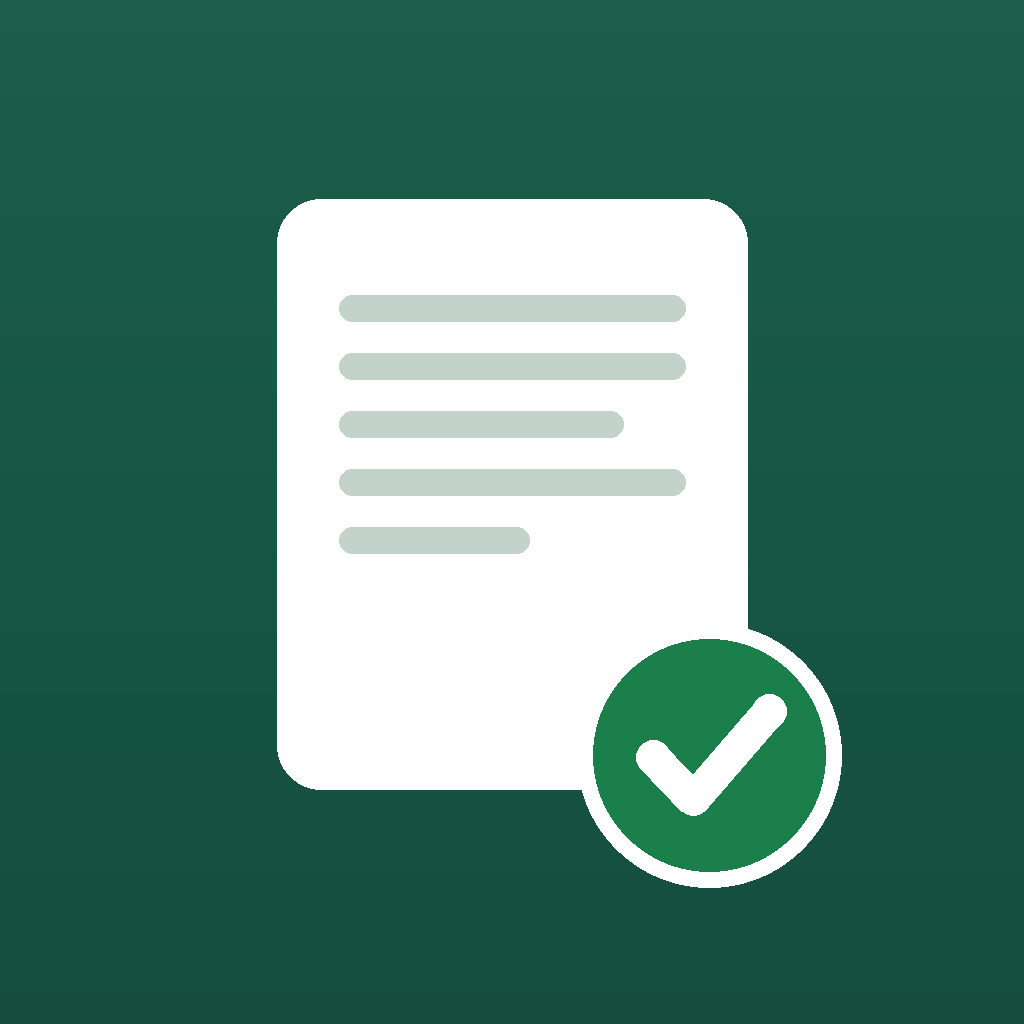
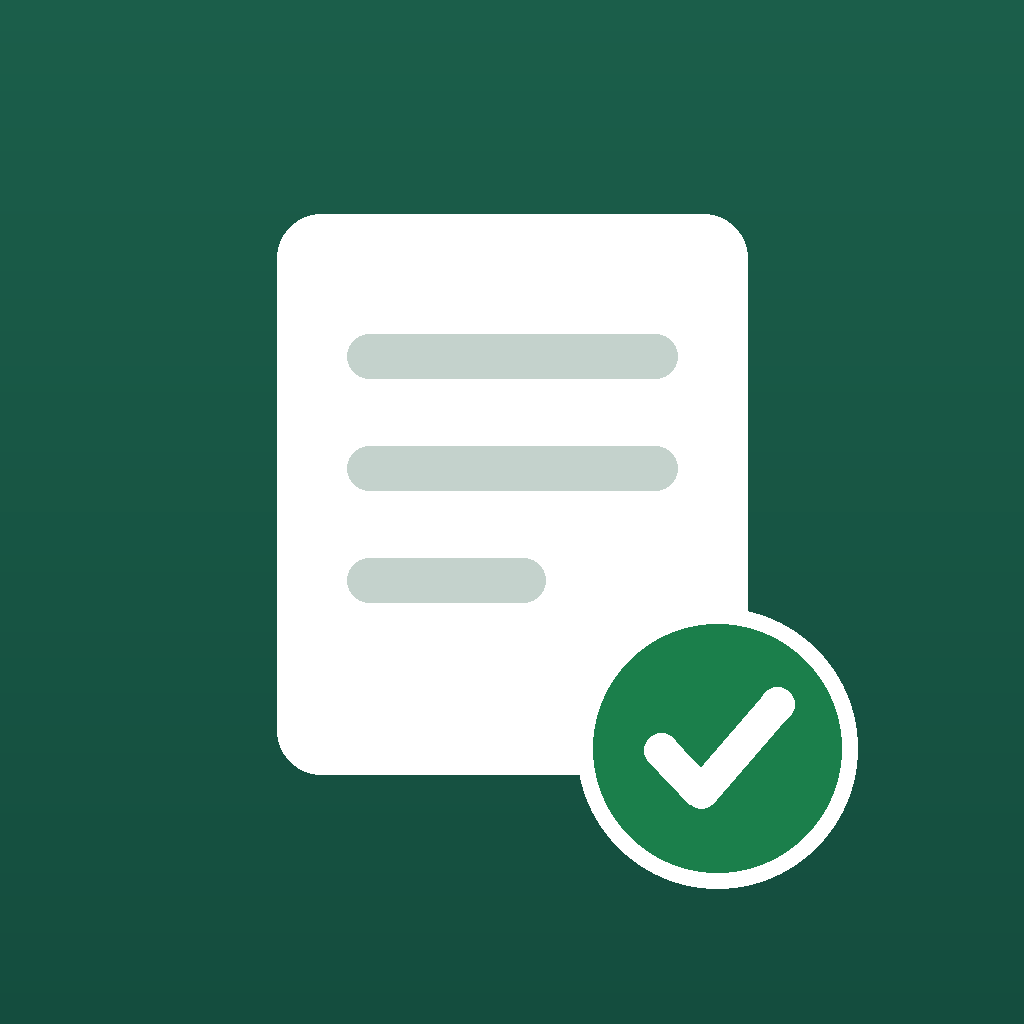
連絡先メールアドレスを記入

diff --git a/index.html b/index.html
@@ -84,7 +84,7 @@
 <h2>お問い合わせ</h2>
 <p>不具合のご報告、解説の誤りのご指摘、ご要望などは、こちらまでお願いいたします。数日以内に返信いたします。</p>
 <div class="box">
-  （ここに連絡先メールアドレスを記入）
+  <a href="mailto:info@tochigigurashi.com">info@tochigigurashi.com</a>
 </div>
 
 <footer>

diff --git a/privacy.html b/privacy.html
@@ -69,7 +69,7 @@
 <h2>8. お問い合わせ</h2>
 <p>本ポリシーに関するお問い合わせは、次の連絡先までお願いいたします。</p>
 <div class="box">
-  （ここに連絡先メールアドレスを記入）
+  <a href="mailto:info@tochigigurashi.com">info@tochigigurashi.com</a>
 </div>
 
 </body>
